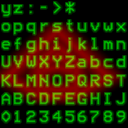
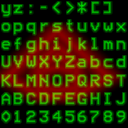
Text is now resized nicely! Just need to write it up

Changed region(s): [[0.4062, 0.0, 0.875, 0.125]]

diff --git a/src/swoop_start_sequence/src/text_sprite.rs b/src/swoop_start_sequence/src/text_sprite.rs
@@ -2,6 +2,13 @@ use web_sys::{
     WebGl2RenderingContext, WebGlBuffer, WebGlProgram, WebGlTexture, WebGlUniformLocation,
 };
 
+use wasm_bindgen::prelude::wasm_bindgen;
+#[wasm_bindgen]
+extern "C" {
+    #[wasm_bindgen(js_namespace = console)]
+    fn log(s: &str);
+}
+
 use super::shader::{init_shader_program, upload_array_f32, ShaderError};
 use super::texture::{bind_2d_texture_to_uniform, load_texture, TextureUnit};
 
@@ -13,6 +20,12 @@ pub struct TextSprite {
 
     uniform_font_texture: Option<WebGlUniformLocation>,
     pub font_texture: WebGlTexture,
+
+    uniform_text_data: Option<WebGlUniformLocation>,
+    uniform_box_dimensions: Option<WebGlUniformLocation>,
+    uniform_character_height: Option<WebGlUniformLocation>,
+    uniform_screen_aspect: Option<WebGlUniformLocation>,
+    uniform_anchor: Option<WebGlUniformLocation>,
 }
 
 impl TextSprite {
@@ -29,6 +42,11 @@ impl TextSprite {
         let attrib_vertex_positions = gl.get_attrib_location(&program, "aVertexPosition") as u32;
 
         let uniform_font_texture = gl.get_uniform_location(&program, "font_texture");
+        let uniform_box_dimensions = gl.get_uniform_location(&program, "text_box_dimensions");
+        let uniform_character_height = gl.get_uniform_location(&program, "character_height");
+        let uniform_anchor = gl.get_uniform_location(&program, "anchor");
+        let uniform_screen_aspect = gl.get_uniform_location(&program, "screen_aspect");
+        let uniform_text_data = gl.get_uniform_location(&program, "text_data");
         
         let font_texture = load_texture(&gl, include_bytes!("resources/font.png"))
             .expect("Failed to load texture");
@@ -39,16 +57,19 @@ impl TextSprite {
             attrib_vertex_positions,
 
             uniform_font_texture,
-            
             font_texture,
+
+            uniform_box_dimensions,
+            uniform_character_height,
+            uniform_anchor,
+            uniform_text_data,
+            uniform_screen_aspect
         })
     }
 
     pub fn setup(&mut self, gl: &WebGl2RenderingContext) {
         gl.use_program(Some(&self.program));
         gl.blend_func(WebGl2RenderingContext::ONE, WebGl2RenderingContext::ONE);
-
-        
 
         bind_2d_texture_to_uniform(
             &gl,
@@ -73,12 +94,81 @@ impl TextSprite {
         gl.enable_vertex_attrib_array(self.attrib_vertex_positions);
     }
 
-    pub fn render(&mut self, gl: &WebGl2RenderingContext) {
+    pub fn render(&mut self, gl: &WebGl2RenderingContext, text_box: &TextBox, screen_aspect: f32,) {
+        // gl.uniform1f(
+        //     self.uniform_trail_percent_offset.as_ref(),
+        //     trail.get_percent_offset(),
+        // );
+
+        let text_data = text_box.uniform_data();
+        //gl.uniform1i(self.uniform_point_buffer_length.as_ref(), trail.length());
+        gl.uniform4fv_with_f32_array(self.uniform_text_data.as_ref(), &text_data);
+        gl.uniform2i(self.uniform_box_dimensions.as_ref(), text_box.box_dimensions.0, text_box.box_dimensions.1);
+        
+        gl.uniform1f(self.uniform_character_height.as_ref(), text_box.character_height);
+        gl.uniform2f(self.uniform_anchor.as_ref(), text_box.anchor.0, text_box.anchor.1);
+
+        gl.uniform1f(self.uniform_screen_aspect.as_ref(), screen_aspect);
 
         gl.draw_arrays(
             WebGl2RenderingContext::TRIANGLE_STRIP,
             0, //offset,
             4, // vertex count
         );
+    }
+}
+
+/// The thing that can be drawn with a text sprite.
+pub struct TextBox {
+    data: Vec<f32>,
+
+    // The text box wraps character wise and permits width*height characters to be displayed
+    box_dimensions: (i32, i32),
+
+    /// Height of a single character As percentage of screen size
+    character_height: f32, 
+    
+    /// Where on the screen to draw the text. Positions the center of the text box with the screen ranging from -1.0 to 1.0 on both axis.
+    anchor: (f32, f32)
+}
+
+impl TextBox {
+    const VALID_CHARS: &'static str = "0123456789ABCDFEGHIJKLMNOPQRSTUVWXYZabcdefghijklmnopqrstuvwxyz:-<>*[] ";
+    
+    pub fn new(box_dimensions: (i32, i32), character_height: f32, anchor: (f32, f32)) -> Self {
+        Self {
+            data: vec!(),
+            box_dimensions,
+            character_height,
+            anchor,
+        }
+    }
+
+    fn clear(&mut self) {
+        self.data.clear();
+    }
+
+    pub fn append_string(&mut self, string: &str, color: &[f32; 3]){
+        for c in string.chars() {
+            self.data.extend(color);
+            self.data.push(Self::encode_char(c));
+        }
+    }
+
+    /// The Text sprite has characters encoded in a non-standard order.
+    /// This does the conversion
+    fn encode_char(c: char) -> f32 {
+        match Self::VALID_CHARS.find(c) {
+            Some(id) => {
+                id as f32
+            }
+            None => {
+                -1.0
+            }
+        }
+    }
+    // Retrieve the data in a format that can be posted to teh shader
+    pub fn uniform_data(&self) -> &Vec<f32> {
+        &self.data
     }
 }

diff --git a/src/swoop_start_sequence/src/app.rs b/src/swoop_start_sequence/src/app.rs
@@ -14,7 +14,7 @@ use super::trail::Trail;
 use super::trail_sprite::TrailSprite;
 use super::transform::Transform2d;
 use super::logo::Logo;
-use super::text_sprite::TextSprite;
+use super::text_sprite::{TextSprite, TextBox};
 
 const YELLOW_SHIP: (f32, f32, f32, f32) = (1.0, 0.7, 0.0, 1.0);
 const PINK_SHIP: (f32, f32, f32, f32) = (1.0, 0.0, 0.7, 1.0);
@@ -237,8 +237,6 @@ impl App {
     }
     
     pub fn play_game(&mut self, dt: f64) {
-        
-
         {
             // Logic
             let player_ship = &mut self.ship_entities[0];
@@ -376,18 +374,31 @@ impl App {
             self.game_state = GameState::Playing;
             return;
         }
+
+        
+        let mut start_text = TextBox::new(
+            (22, 1),
+            0.05,
+            (0.0, -0.2)
+        );
+        start_text.append_string("Press", &[0.0, 0.7, 1.0]);
+        start_text.append_string(" [ENTER] ", &[0.0, 1.0, 0.7]);
+        start_text.append_string("to start", &[0.0, 0.7, 1.0]);
+
+
         {
             // Rendering
             self.check_resize();
             self.gl.clear(
                 WebGl2RenderingContext::COLOR_BUFFER_BIT | WebGl2RenderingContext::DEPTH_BUFFER_BIT,
             );
+            let screen_aspect_ratio = (self.canvas_resolution.1 as f32) / (self.canvas_resolution.0 as f32);
             let camera_to_clipspace = [
                 1.0,
                 0.0,
                 0.0,
                 0.0,
-                (self.canvas_resolution.1 as f32 / self.canvas_resolution.0 as f32),
+                screen_aspect_ratio,
                 0.0,
                 0.0,
                 0.0,
@@ -408,8 +419,8 @@ impl App {
             
             self.ship_sprite.camera_to_clipspace = camera_to_clipspace;
             self.ship_sprite.world_to_camera = world_to_camera;
+            self.ship_sprite.setup(&self.gl);
             for ship in &self.logo.ships {
-                self.ship_sprite.setup(&self.gl);
                 self.ship_sprite.render(&self.gl, &ship);
             }
             
@@ -420,9 +431,8 @@ impl App {
             self.map_sprite.world_to_sprite = map_sprite_transform.to_mat3_array();
             self.map_sprite.render(&self.gl);
             
-            
             self.text_sprite.setup(&self.gl);
-            self.text_sprite.render(&self.gl);
+            self.text_sprite.render(&self.gl, &start_text, screen_aspect_ratio);
         }
         
     }

diff --git a/src/swoop_start_sequence/src/shader.rs b/src/swoop_start_sequence/src/shader.rs
@@ -19,7 +19,7 @@ pub enum ShaderError {
     ShaderGetInfoError,
 
     /// I think this means that the Vertex and Fragment shaders incompatible
-    ShaderLinkError(),
+    ShaderLinkError(String),
 
     /// Failed to create buffer to upload data into
     BufferCreationFailed,
@@ -106,10 +106,13 @@ pub fn init_shader_program(
 
     if !(gl.get_program_parameter(&shader_program, WebGl2RenderingContext::LINK_STATUS)).is_truthy()
     {
+        let data = ShaderError::ShaderLinkError(
+            gl.get_program_info_log(&shader_program).or(Some("No Error".to_string())).unwrap()
+        );
         gl.delete_program(Some(&shader_program));
         gl.delete_shader(Some(&vert_shader));
         gl.delete_shader(Some(&frag_shader));
-        return Err(ShaderError::ShaderLinkError());
+        return Err(data);
     }
 
     Ok(shader_program)

diff --git a/src/swoop_start_sequence/src/resources/font.py b/src/swoop_start_sequence/src/resources/font.py
@@ -10,7 +10,7 @@ FONT_SIZE = math.floor(IMAGE_SIZE / ROWS) - FILTER_SIZE
 
 
 CHARS = """
-yz:->*    \
+yz:-<>*[] \
 opqrstuvwx
 efghijklmn
 UVWXYZabcd
@@ -26,6 +26,7 @@ FONT = ImageFont.truetype("bedstead.ttf", FONT_SIZE)
 raw_sheet = Image.new("RGBA", (IMAGE_SIZE,IMAGE_SIZE), (0,0,0, 255))
 draw = ImageDraw.Draw(raw_sheet)
     
+ids = {}
 
 for i, character in enumerate(CHARS):
     column = i % COLUMNS
@@ -33,6 +34,8 @@ for i, character in enumerate(CHARS):
     
     col_pix = column * (IMAGE_SIZE / COLUMNS)
     row_pix = row * (IMAGE_SIZE / ROWS)
+
+    ids[character] = i
     
     color = (255, 0, 0, 255)
     
@@ -98,3 +101,4 @@ out_image = ImageChops.add(ship_sprite, sdf)
 out_image.save("font.png")
 out_image.show()
 
+print(i)
